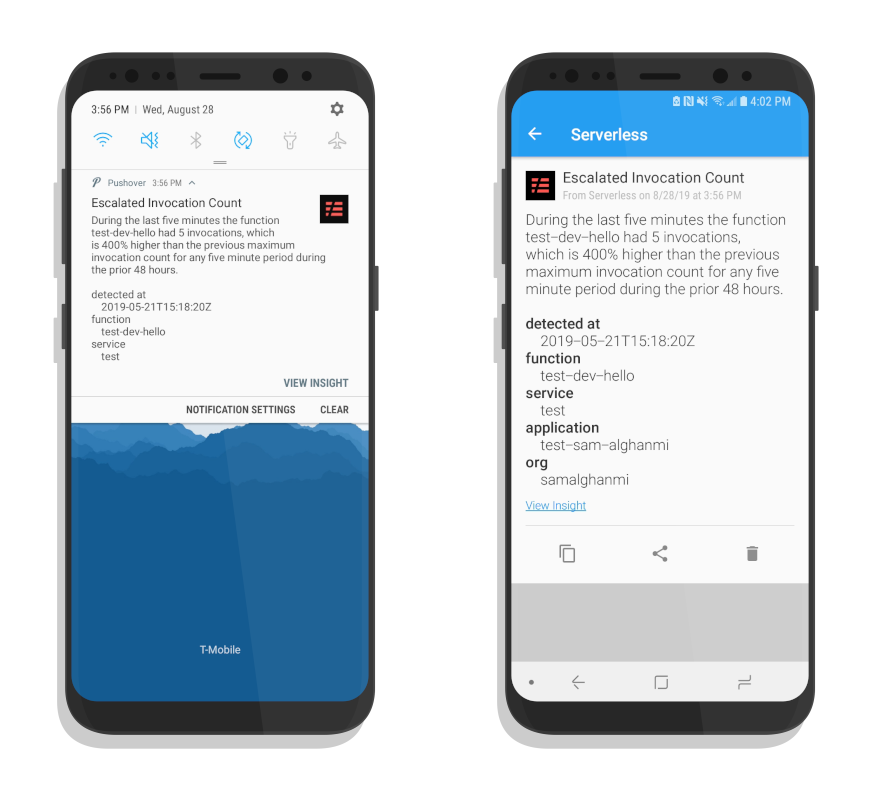
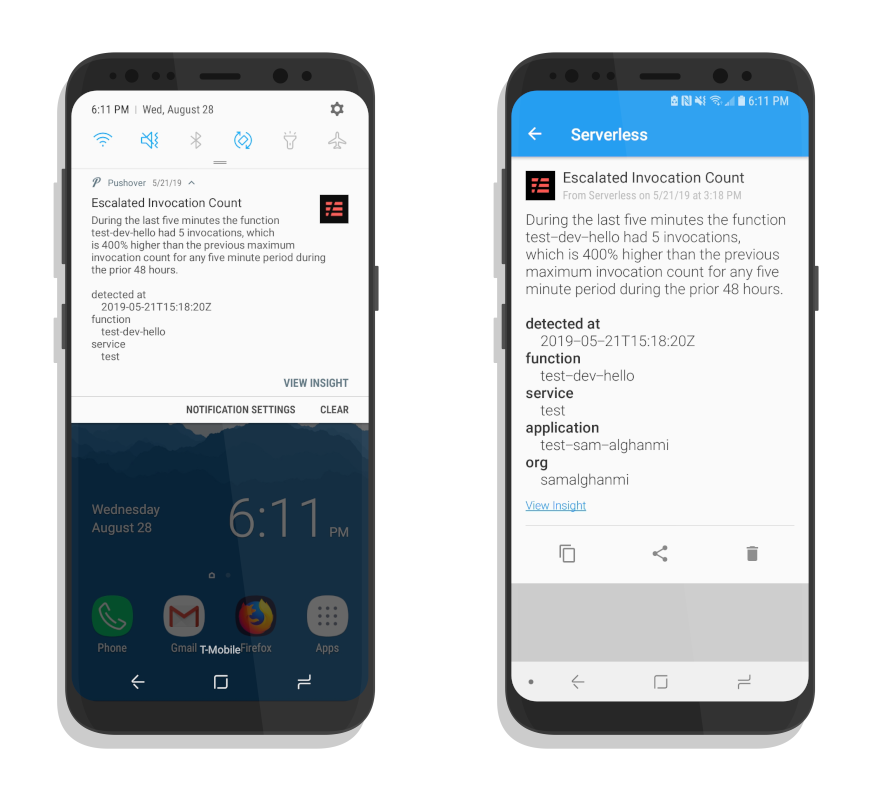
blacken & int timestamp & fix screenshots for timestamp bug

diff --git a/handler.py b/handler.py
@@ -22,9 +22,9 @@ def webhook(event, context):
         params["title"] = "Test Notification"
         params["monospace"] = 1
     elif payload.get("insight"):
-        params["timestamp"] = datetime.strptime(
-            payload["timestamp"], "%Y-%m-%dT%H:%M:%SZ"
-        ).timestamp()
+        params["timestamp"] = int(
+            datetime.strptime(payload["timestamp"], "%Y-%m-%dT%H:%M:%SZ").timestamp()
+        )
         params["html"] = 1
         params["url_title"] = "View Insight"
         params["url"] = payload["url"]
@@ -45,7 +45,7 @@ def webhook(event, context):
         # TODO - more detail per notification type:
         # if payload.get("insight") == "EscalatedInvocationCount":
         #     message += f"""  more info """
-        params["title"] = re.sub(r'([a-z])([A-Z])', r'\1 \2', payload["insight"])
+        params["title"] = re.sub(r"([a-z])([A-Z])", r"\1 \2", payload["insight"])
     else:
         params["monospace"] = 1
         params["message"] = (json.dumps(payload, indent=2),)
